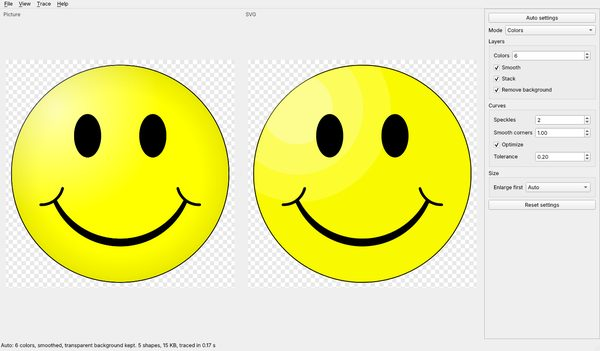
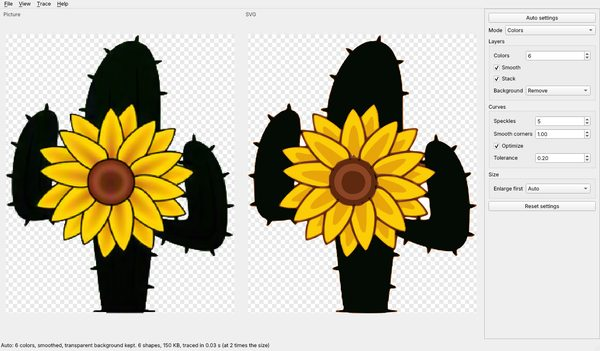
Site content up to date with KanzonasPDF 1.14, KanzonasCAD 0.15.12 and KanzonasSVG 1.1.1
KanzonasSVG now checks for updates and updates itself: its page, Help and Privacy no longer
say it never goes online. Its new screenshots (the sunflower and an illustration), crop, line
art, and the comparison with Inkscape 1.4.4 from its README. KanzonasPDF: comments review,
smart forms, accessibility, batch processing, reading tools, rulers, groups, layers, spaces,
sets, numbered dots, Italian. KanzonasCAD: wire tools and duct sizes.

Claude-Session: https://claude.ai/code/session_01Ho1n54UpgAK6PzGHAaZR8m

diff --git a/svg/index.html b/svg/index.html
@@ -88,7 +88,7 @@
           </p>
           <div class="trust-note">
             <p><strong>About the Windows warning.</strong> Windows warns about programs that aren't code-signed and that it hasn't seen much yet, and every new version counts as new. The code-signing certificate that stops this costs money this free project doesn't spend yet. The warning doesn't mean anything is wrong. If your browser asks, choose <strong>Keep</strong>; if Windows says "Windows protected your PC", click <strong>More info</strong> &gt; <strong>Run anyway</strong>.</p>
-            <p><strong>Why you can trust it:</strong> the source code is public on GitHub, and every download is built by GitHub's own servers straight from that code, only after its automated tests, a battery of tests that tries to break it, and a self-test of the finished program pass. Each release lists SHA-256 checksums so you can check your copy. No ads, no account, and it never goes online: your pictures stay on your computer.</p>
+            <p><strong>Why you can trust it:</strong> the source code is public on GitHub, and every download is built by GitHub's own servers straight from that code, only after its automated tests, a battery of tests that tries to break it, and a self-test of the finished program pass. Each release lists SHA-256 checksums so you can check your copy. No ads, no account, and your pictures stay on your computer.</p>
             <p>Questions? Write to <a href="mailto:support@kanzonas.com">support@kanzonas.com</a>.</p>
           </div>
         </div>
@@ -100,10 +100,11 @@
         <h2>Screenshots</h2>
         <ul class="gallery">
           <!-- gallery:start: written by tools/update_screenshots.py from the app's README; don't edit by hand -->
-          <li><a href="shots/screenshot.png" data-caption="A picture and its SVG side by side"><img src="shots/screenshot-thumb.jpg" alt="A picture and its SVG side by side" width="600" height="351" loading="lazy"><span>A picture and its SVG</span></a></li>
+          <li><a href="shots/screenshot.png" data-caption="The KanzonasSVG window: on the left, a picture of a yellow sunflower with a brown center on a dark green cactus; on the right, its SVG traced in 6 flat colors with Auto settings, petals, center and cactus matching the picture; the settings panel on the right shows Colors mode, 6 colors and Background: Remove"><img src="shots/screenshot-thumb.jpg" alt="The KanzonasSVG window: on the left, a picture of a yellow sunflower with a brown center on a dark green cactus; on the right, its SVG traced in 6 flat colors with Auto settings, petals, center and cactus matching the picture; the settings panel on the right shows Colors mode, 6 colors and Background: Remove" width="600" height="351" loading="lazy"><span>A logo traced</span></a></li>
+          <li><a href="shots/landscape.png" data-caption="A flat illustration traced with Auto settings: an orange sky with a pale yellow sun, purple mountains, a green hill, a blue lake, dark green pines, a cream house with a red roof and blue door, and pink, orange, yellow and lilac flowers in the grass; the SVG on the right matches it in 14 flat colors"><img src="shots/landscape-thumb.jpg" alt="A flat illustration traced with Auto settings: an orange sky with a pale yellow sun, purple mountains, a green hill, a blue lake, dark green pines, a cream house with a red roof and blue door, and pink, orange, yellow and lilac flowers in the grass; the SVG on the right matches it in 14 flat colors" width="600" height="351" loading="lazy"><span>An illustration in 14 colors</span></a></li>
           <!-- gallery:end -->
         </ul>
-        <p class="gallery-note">Click a picture to see it full size.</p>
+        <p class="gallery-note">Click a picture to see it full size, then use the arrows to go through them.</p>
       </div>
     </section>
 
@@ -113,15 +114,15 @@
         <div class="grid">
           <div class="feature">
             <h3>Picks the settings for you</h3>
-            <p>Open a picture, drag it in or paste it, and Auto settings chooses the number of colors, smoothing for photos and scans, and the background. The SVG appears beside the picture; change any setting and it updates.</p>
+            <p>Open a picture, drag it in or paste it, and Auto settings sets everything for it: a logo's or illustration's exact colors (up to 64), smoothing for photos and scans, the background, and thin lines for drawings and plans. The SVG appears beside the picture; change any setting and it updates.</p>
           </div>
           <div class="feature">
             <h3>Exact colors, sharp edges</h3>
-            <p>A logo's colors come out exactly as in the picture, with no rings of in-between shades around letters and shapes, and the holes in letters like O stay holes.</p>
+            <p>Flat colors come out exactly as in the picture, with no rings of in-between shades around letters and shapes. Thin lines stay thin and keep their colors, and the holes in letters like O stay holes.</p>
           </div>
           <div class="feature">
-            <h3>Remove the background</h3>
-            <p>Make the color around the picture see-through, keeping it inside shapes, or remove it everywhere. A transparent background stays transparent.</p>
+            <h3>Only what you want</h3>
+            <p>Crop to trace just part of a picture, such as the drawing in a screenshot without the toolbars. Make the background see-through, keeping its color inside shapes, or remove it everywhere.</p>
           </div>
           <div class="feature">
             <h3>Modes for every kind of picture</h3>
@@ -149,53 +150,54 @@
 
     <section>
       <div class="wrap">
-        <h2>Inkscape's tracing, fixed</h2>
-        <p class="section-lead">KanzonasSVG's tracing is Inkscape's Trace Bitmap (Potrace and Autotrace), taken out of Inkscape and fixed. Here's how many pixels come out badly wrong (off by more than 25% when the SVG is drawn and compared with the picture). Lower is better.</p>
-        <div class="table-wrap" role="region" aria-label="Badly wrong pixels: Inkscape's tracing code before the fixes against KanzonasSVG" tabindex="0">
+        <h2>A free alternative to Inkscape's Trace Bitmap</h2>
+        <p class="section-lead">KanzonasSVG's tracing is Inkscape's Trace Bitmap (Potrace and Autotrace) with fixes, in a program that does only this. If you trace pictures in Inkscape and fix the result by hand, try KanzonasSVG first.</p>
+        <div class="table-wrap" role="region" aria-label="KanzonasSVG compared with Inkscape's Trace Bitmap" tabindex="0">
+          <table class="compare">
+            <thead>
+              <tr>
+                <th scope="col"><span class="sr-only">Feature</span></th>
+                <th scope="col" class="us">KanzonasSVG</th>
+                <th scope="col">Inkscape's Trace Bitmap</th>
+              </tr>
+            </thead>
+            <tbody>
+              <tr><th scope="row">Picks the settings for each picture</th><td class="us">Yes: colors, smoothing, background, line art</td><td>No</td></tr>
+              <tr><th scope="row">Colors</th><td class="us">Exactly the picture's, for flat colors</td><td>Close to the picture's</td></tr>
+              <tr><th scope="row">Edges between colors</th><td class="us">Sharp</td><td>In-between shades as extra outlines</td></tr>
+              <tr><th scope="row">Thin lines (plans, drawings, screenshots)</th><td class="us">Kept, in their colors</td><td>Thickened and faded by smoothing</td></tr>
+              <tr><th scope="row">Trace part of a picture</th><td class="us">Crop</td><td>No</td></tr>
+              <tr><th scope="row">Many files at once</th><td class="us">Command line</td><td>No</td></tr>
+              <tr><th scope="row">Edit the SVG afterwards</th><td class="us">No: open it in Inkscape or another editor</td><td>Yes: it's a vector editor</td></tr>
+              <tr><th scope="row">Pixel art (Depixelize), selecting the foreground (SIOX)</th><td class="us">No</td><td>Yes</td></tr>
+              <tr><th scope="row">Systems</th><td class="us">Windows, Linux</td><td>Windows, macOS, Linux</td></tr>
+            </tbody>
+          </table>
+        </div>
+
+        <h3>How close the SVG comes to the picture</h3>
+        <p>Pixels clearly the wrong color (off by more than 25% when the SVG is drawn and compared with the picture). Lower is better.</p>
+        <div class="table-wrap" role="region" aria-label="Pixels clearly the wrong color: Inkscape against KanzonasSVG" tabindex="0">
           <table class="compare">
             <thead>
               <tr>
                 <th scope="col">Picture</th>
-                <th scope="col">Mode</th>
-                <th scope="col">Inkscape's code, before the fixes</th>
-                <th scope="col" class="us">KanzonasSVG</th>
+                <th scope="col">Inkscape, 8 colors</th>
+                <th scope="col" class="us">KanzonasSVG, Auto settings</th>
               </tr>
             </thead>
             <tbody>
-              <tr>
-                <th scope="row"><a href="https://commons.wikimedia.org/wiki/File:Smiley.svg">Smiley</a></th>
-                <td>Colors, 8</td>
-                <td>0.47%</td>
-                <td class="us">0.27%</td>
-              </tr>
-              <tr>
-                <th scope="row">Smiley</th>
-                <td>Autotrace colors, 8</td>
-                <td>65%</td>
-                <td class="us">0.61%</td>
-              </tr>
-              <tr>
-                <th scope="row"><a href="https://commons.wikimedia.org/wiki/File:Van_Gogh_-_Starry_Night_-_Google_Art_Project.jpg">The Starry Night</a></th>
-                <td>Colors, 16</td>
-                <td>3.0%</td>
-                <td class="us">2.3%</td>
-              </tr>
-              <tr>
-                <th scope="row">The Starry Night</th>
-                <td>Autotrace colors, 16</td>
-                <td>30%</td>
-                <td class="us">12.7%</td>
-              </tr>
-              <tr>
-                <th scope="row">A two-color logo</th>
-                <td>Colors, 8</td>
-                <td>0.89%</td>
-                <td class="us">0.17%</td>
-              </tr>
+              <tr><th scope="row">A two-color logo</th><td>1.6%</td><td class="us">0.26%</td></tr>
+              <tr><th scope="row">The same logo as a JPEG</th><td>1.5%</td><td class="us">0.34%</td></tr>
+              <tr><th scope="row">Sunflower and cactus</th><td>6.5%</td><td class="us">2.5%</td></tr>
+              <tr><th scope="row"><a href="https://commons.wikimedia.org/wiki/File:Smiley.svg">Smiley</a></th><td>0.46%</td><td class="us">0.23%</td></tr>
+              <tr><th scope="row">A flat illustration, 15 colors</th><td>1.7%</td><td class="us">0.29%</td></tr>
+              <tr><th scope="row">A floor plan (thin gray lines, blue labels)</th><td>0.87%</td><td class="us">0.002%</td></tr>
+              <tr><th scope="row"><a href="https://commons.wikimedia.org/wiki/File:Van_Gogh_-_Starry_Night_-_Google_Art_Project.jpg">The Starry Night</a></th><td>3.7%</td><td class="us">2.9%</td></tr>
             </tbody>
           </table>
         </div>
-        <p class="table-note">Measured by KanzonasSVG's own tests (both named pictures are public domain). It's faster too: a 12-megapixel picture with 8 colors took 6.4 s with Inkscape's code before the fixes and 1.8 s with these fixes alone. The cost: keeping strong edges sharp adds about 15% more nodes on detailed pictures. The same fixes were offered to Inkscape: <a href="https://gitlab.com/inkscape/inkscape/-/merge_requests/8302">inkscape!8302</a>. Inkscape is a trademark of its owners.</p>
+        <p class="table-note">Measured by KanzonasSVG's developers in November 2026 against Inkscape's own code (its development version of 10 November 2026, whose tracing is the same as Inkscape 1.4.4's), on the same pictures, with Inkscape's default settings; every SVG drawn by the same renderer. With Autotrace the gap is wider (the smiley: 65% in Inkscape, a black disc, against 0.60%). On a big painting KanzonasSVG is faster (The Starry Night: 0.24 s, Inkscape 1.1 s) and its file smaller; on line art, which it traces at four times the size, it's slower. Full results: <a href="https://github.com/keithlyding/KanzonasSVG#compared-with-inkscape">KanzonasSVG's README</a>. The same fixes were offered to Inkscape: <a href="https://gitlab.com/inkscape/inkscape/-/merge_requests/8302">inkscape!8302</a>. Inkscape is a trademark of its owners.</p>
         <p><strong>Free, with no account, no watermark and no upload:</strong> unlike many online converters, your picture never leaves your computer. Missing something? <a href="https://github.com/keithlyding/KanzonasSVG/issues">Tell us</a>.</p>
       </div>
     </section>
@@ -206,10 +208,10 @@
         <ul class="facts">
           <li>Free and open source (GPL-2.0 or later)</li>
           <li>Windows, and Linux (64-bit PCs; Ubuntu 22.04, Debian 12, Fedora 36 or newer)</li>
-          <li>Never goes online; nothing is uploaded</li>
+          <li>Nothing is uploaded: it only goes online to check for a newer version (you can turn that off)</li>
           <li>Opens PNG, JPEG, BMP, GIF, WebP and TIFF pictures, or a picture you copied</li>
           <li>Installs without administrator rights, and adds itself to "Open with" for pictures</li>
-          <li>Updating: install the newer version over it</li>
+          <li>Updates itself: Update now downloads the new version, checks it and installs it, settings kept</li>
         </ul>
       </div>
     </section>

diff --git a/pdf/index.html b/pdf/index.html
@@ -121,11 +121,11 @@
         <div class="grid">
           <div class="feature">
             <h3>Measure</h3>
-            <p>Calibrated length, area, perimeter, volume, count, angle and radius, with scales read from title blocks. Dimension markups and an on-screen scale bar.</p>
+            <p>Calibrated length, area, perimeter, volume, count, angle and radius, with scales read from title blocks. Dimension markups, rulers, and named spaces (Room 101) to sort takeoffs and punch lists room by room.</p>
           </div>
           <div class="feature">
             <h3>Mark up and review</h3>
-            <p>Highlights, comments, callouts, shapes, revision clouds and stamps with your name and the date. Legends that list and total the markups, and compare revisions with the changes clouded for you.</p>
+            <p>Highlights, comments, callouts, shapes, revision clouds, numbered dots and stamps with your name and the date. Reply to comments, set their status, and exchange them with Acrobat (XFDF/FDF). Groups, layers, and legends that list and total the markups. Compare revisions with the changes clouded for you.</p>
           </div>
           <div class="feature">
             <h3>Edit the PDF itself</h3>
@@ -133,7 +133,7 @@
           </div>
           <div class="feature">
             <h3>Forms, signatures, redaction</h3>
-            <p>Fill in and create forms, sign by hand or with a certificate, redact for real (hidden text and leftovers too), and recognize text in scanned pages.</p>
+            <p>Fill in and create forms, including fields that add up or follow a formula, sign by hand or with a certificate, redact for real (hidden text and leftovers too), and recognize text in scanned pages.</p>
           </div>
           <div class="feature">
             <h3>Scan</h3>
@@ -141,7 +141,19 @@
           </div>
           <div class="feature">
             <h3>Pages, archive and export</h3>
-            <p>Replace a page with its new revision and keep its markups. Combine files, save as PDF/A for archiving, and export to Word, Excel, PowerPoint and AutoCAD DXF.</p>
+            <p>Replace a page with its new revision and keep its markups. Combine files, browse a set of sheets as one, save as PDF/A for archiving, and export to Word, Excel, PowerPoint and AutoCAD DXF.</p>
+          </div>
+          <div class="feature">
+            <h3>Many files at once</h3>
+            <p>Batch processing runs the same steps on a folder of PDFs: OCR, PDF/A, Bates numbers, watermarks, flattening, redaction and smaller files. Your originals stay as they were.</p>
+          </div>
+          <div class="feature">
+            <h3>Accessible PDFs</h3>
+            <p>Check a PDF against PDF/UA, the standard for screen readers, and fix what it finds: tags, reading order, picture descriptions, title and language. Bookmarks and a table of contents from the headings.</p>
+          </div>
+          <div class="feature">
+            <h3>Read comfortably</h3>
+            <p>Split view to compare two places or two revisions, full screen and presentation, two pages side by side, and read aloud with your computer's own voices.</p>
           </div>
         </div>
       </div>
@@ -236,7 +248,8 @@
           <li>Free and open source (AGPL-3.0)</li>
           <li>Windows, Linux (64-bit PCs) and Mac (Apple silicon, macOS 14.4 or newer)</li>
           <li>Runs offline; nothing is uploaded</li>
-          <li>Portable: runs from a USB stick</li>
+          <li>Portable: runs from a USB stick, also as a PortableApps.com package</li>
+          <li>In English, Spanish and Italian</li>
           <li>Tells you when an update is out</li>
           <li>On a Mac, the first time: System Settings &gt; Privacy &amp; Security &gt; Open Anyway (not signed by Apple yet)</li>
           <li>Light, dark or match-system theme</li>

diff --git a/home/help.html b/home/help.html
@@ -83,13 +83,13 @@
       <p><strong>If it doesn't start</strong> with an error about FUSE or <code>libfuse.so.2</code>: install FUSE 2 (<code>sudo apt install libfuse2</code> on Ubuntu 22.04 and Debian 12, <code>sudo apt install libfuse2t64</code> on Ubuntu 24.04 and later, <code>sudo dnf install fuse-libs</code> on Fedora), or start it with <code>--appimage-extract-and-run</code> after its name.</p>
 
       <h2 id="updates">Updates</h2>
-      <p>KanzonasPDF and KanzonasCAD tell you when a new version is out, and you can check any time with <strong>Help &gt; Check for updates...</strong>. KanzonasSVG never goes online, so it doesn't check: get the newest version from <a href="https://svg.kanzonas.com/">its page</a>. Your settings and work are kept when you update.</p>
+      <p>All three apps tell you when a new version is out, and you can check any time with <strong>Help &gt; Check for updates...</strong>. Your settings and work are kept when you update. (KanzonasSVG 1.0.x can't update itself: install 1.1 or newer by hand once.)</p>
       <ul>
         <li><strong>KanzonasPDF on Windows:</strong> download and run the new installer; it replaces the old version. With the portable zip, unzip the new one over the same folder.</li>
         <li><strong>KanzonasPDF on Linux:</strong> <strong>Update now</strong> downloads the new AppImage, checks it, and puts it in place of the old one.</li>
         <li><strong>KanzonasPDF on a Mac:</strong> download the new disk image, drag KanzonasPDF to Applications and choose <strong>Replace</strong>.</li>
         <li><strong>KanzonasCAD:</strong> <strong>Update now</strong> downloads the new version, checks it and installs it over your copy (installer, portable zip and AppImage alike).</li>
-        <li><strong>KanzonasSVG:</strong> on Windows, run the new installer (it installs over the old version), or unzip the new zip in place of the old folder. On Linux, replace the old AppImage with the new one.</li>
+        <li><strong>KanzonasSVG:</strong> <strong>Update now</strong> (in the status bar) downloads the new version, checks it and installs it over your copy (installer, zip and AppImage alike), then starts KanzonasSVG again.</li>
       </ul>
 
       <h2 id="uninstall">Uninstalling</h2>

diff --git a/cad/index.html b/cad/index.html
@@ -131,7 +131,7 @@
           </div>
           <div class="feature">
             <h3>Wires and wire numbers</h3>
-            <p>Wires stay attached to symbols. Wire numbers (6001) number themselves, with distribution blocks (6001A) and off-sheet connectors. Trim, clean up and align wires.</p>
+            <p>Wires stay attached to symbols. Wire numbers (6001) number themselves, with distribution blocks (6001A) and off-sheet connectors. Trim and clean up wires, scoot and align devices on them, and draw crossings plain, with a gap or a loop.</p>
           </div>
           <div class="feature">
             <h3>Tags and cross-references</h3>
@@ -139,7 +139,7 @@
           </div>
           <div class="feature">
             <h3>Panel layouts</h3>
-            <p>Panel sheets at a scale (1:4, 3" = 1'-0"...), with DIN rail and wire duct at real size. Footprints snap onto the rail, and Sheet scale picks a scale that fits.</p>
+            <p>Panel sheets at a scale (1:4, 3" = 1'-0"...), with dimensions, and DIN rail and wire duct at real size in standard sizes. Footprints snap onto the rail, and Sheet scale picks a scale that fits.</p>
           </div>
           <div class="feature">
             <h3>Reports</h3>

diff --git a/home/privacy.html b/home/privacy.html
@@ -51,7 +51,7 @@
         <li><strong>Your files never leave your computer.</strong> There's no account, no cloud and no telemetry.</li>
         <li><strong>KanzonasPDF</strong> only goes online to check whether a newer version exists (you can turn that off) and, if you add a trusted timestamp to a digital signature, to reach a timestamp server. Recognizing text (OCR) works offline. Scanning talks to scanners on your own network.</li>
         <li><strong>KanzonasCAD</strong> only goes online to check for and download new versions.</li>
-        <li><strong>KanzonasSVG</strong> never goes online. Your pictures are traced on your computer.</li>
+        <li><strong>KanzonasSVG</strong> only goes online once a day to check whether a newer version exists (Help &gt; Check for updates automatically turns that off), and to download it when you click Update now. Nothing about you or your pictures is sent; your pictures are traced on your computer.</li>
       </ul>
 
       <h2>Email and bug reports</h2>

diff --git a/docs/ROADMAP.md b/docs/ROADMAP.md
@@ -42,9 +42,13 @@ sessions: see AGENTS.md.)
 - Done (13 Nov 2026): **KanzonasSVG** on the website (the owner tested it): svg.kanzonas.com
   (`svg/`, its own Cloudflare Pages project, orange accent), a card on kanzonas.com, KanzonasSVG
   in every menu and footer, Help and Privacy, the screenshot updates and the weekly summary.
-  Still to do: its "What's new" stays hidden until its GitHub releases mark their notes with
-  `<!-- svg-notes -->` ... `<!-- /svg-notes -->` (KanzonasSVG's own session); an AlternativeTo
-  listing for it, if the owner wants one.
+  Its releases mark their notes (`<!-- kanzonas-notes -->`, from 1.1.1), so "What's new" shows.
+  Still to do: an AlternativeTo listing for it, if the owner wants one.
+- Done (13 Nov 2026): content brought up to KanzonasPDF 1.14 (comments review, smart forms,
+  accessibility, batch processing, split view, rulers, groups, layers, spaces, sets, numbered
+  dots, Italian), KanzonasCAD 0.15.12 (wire tools, duct sizes) and KanzonasSVG 1.1.1 (it now
+  checks for updates and updates itself: the SVG page, Help and Privacy say so; crop; line art;
+  the comparison with Inkscape 1.4.4 from its README).
 - Done: the CAD page shows the portable zip only (the owner, Nov 2026), as the PDF page does;
   the plain Windows zip stays on the GitHub releases page.
 
